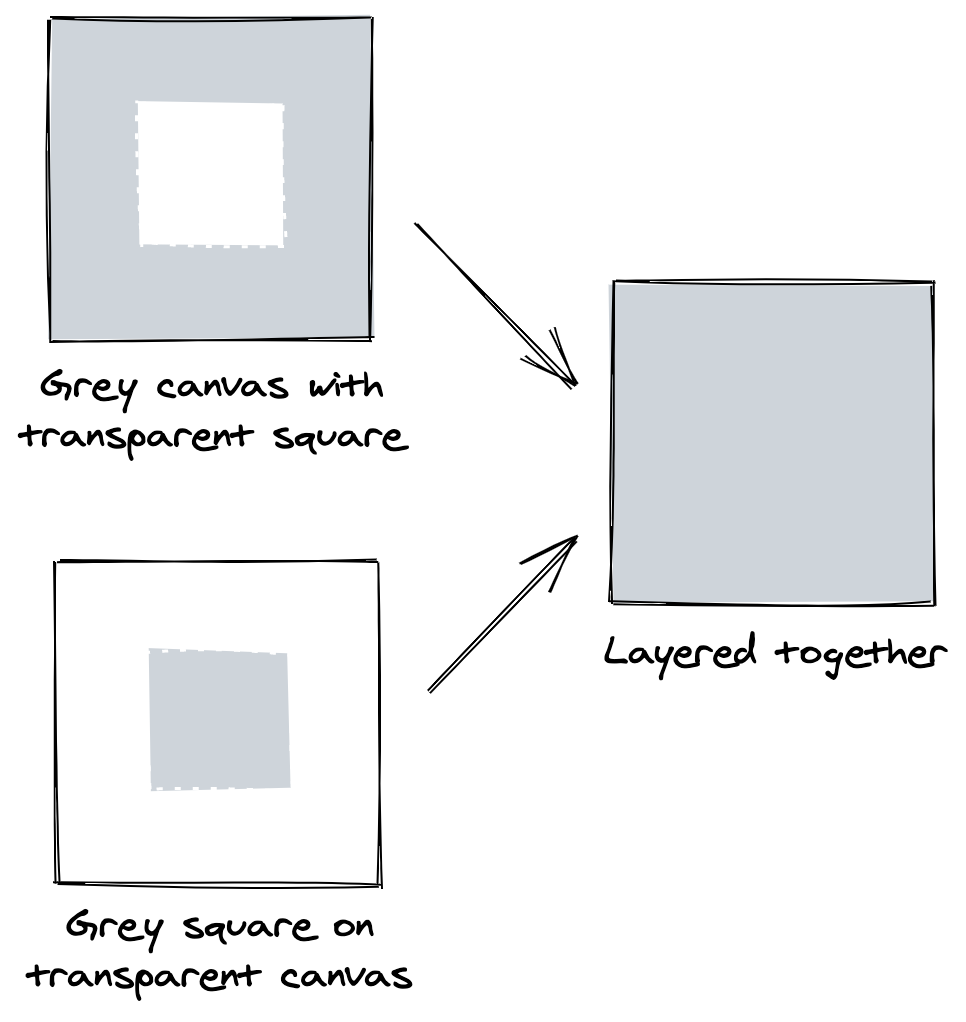
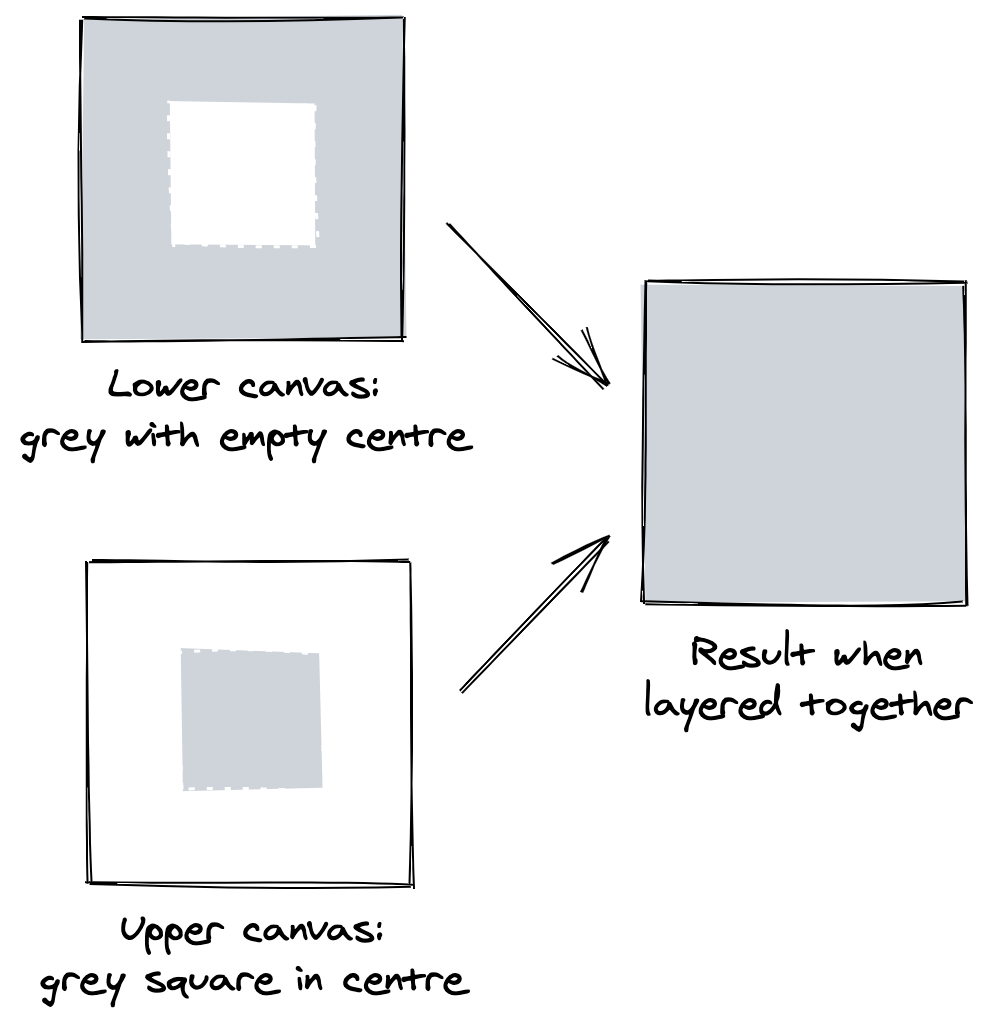
Feature/canvas post improvements (#80)
* canvas posts improvements

* improvements

* update posts

* activate the posts

* update dates

diff --git a/src/static/iframes/canvas-tearing.html b/src/static/iframes/canvas-tearing.html
@@ -63,17 +63,27 @@
       let direction = "up";
 
       function handleLoad() {
+        let offscreenCanvases = null;
+        try {
+          const canvasOne = document.getElementById("canvas-one");
+          const canvasTwo = document.getElementById("canvas-two");
+          offscreenCanvases = [
+            canvasOne.transferControlToOffscreen(),
+            canvasTwo.transferControlToOffscreen(),
+          ];
+        } catch (err) {
+          // I can't just check for the presence of the transferControlToOffscreen
+          // method because it exists in Firefox but is not implemented.
+          document.querySelector("body").innerText =
+            "transferControlToOffscreen is not supported in this browser";
+          return;
+        }
+
         const blob = new Blob([document.querySelector("#worker").textContent], {
           type: "text/javascript",
         });
         worker = new Worker(window.URL.createObjectURL(blob));
 
-        const canvasOne = document.getElementById("canvas-one");
-        const canvasTwo = document.getElementById("canvas-two");
-        const offscreenCanvases = [
-          canvasOne.transferControlToOffscreen(),
-          canvasTwo.transferControlToOffscreen(),
-        ];
         worker.postMessage(
           {
             type: "TRANSFER_CANVASES",
@@ -151,6 +161,10 @@
         height: 400px;
       }
 
+      .canvas-wrap:not(:first-of-type) {
+        margin-top: 30px;
+      }
+
       .canvas-wrap > * {
         position: absolute;
         top: 0;
@@ -170,7 +184,8 @@
         font-family: sans-serif;
         font-size: 1rem;
         text-transform: uppercase;
-        margin: 0.25rem 0 0 0.25rem;
+        margin: 0.5rem 0 0 0.5rem;
+        color: white;
       }
     </style>
   </head>

diff --git a/src/posts/2020-08-22-layered-canvas-rendering-issues-in-web-workers.md b/src/posts/2020-08-22-layered-canvas-rendering-issues-in-web-workers.md
@@ -6,35 +6,36 @@ date: 2020-08-22
 author:
   name: Steve Johns
   url: https://www.linkedin.com/in/stephen-johns-47a7568/
-draft: true
 issueNumber: 77
 ---
 
 ## Introduction
 
-A recommended optimisation when using a [`<canvas>`](https://developer.mozilla.org/en-US/docs/Web/HTML/Element/canvas) HTML element to render a complex scene is to [use multiple canvases layered together](https://developer.mozilla.org/en-US/docs/Web/API/Canvas_API/Tutorial/Optimizing_canvas), rather than just a single canvas. This post details two rendering issues that I have found in Chrome when rendering to layered canvases from Web Workers.
+A recommended optimisation when using a [`<canvas>`](https://developer.mozilla.org/en-US/docs/Web/HTML/Element/canvas) HTML element to render a complex scene is to [use multiple canvases layered together](https://developer.mozilla.org/en-US/docs/Web/API/Canvas_API/Tutorial/Optimizing_canvas), rather than just a single canvas. This post details two rendering issues that I have found in Chrome when using the [Canvas API](https://developer.mozilla.org/en-US/docs/Web/API/Canvas_API) to render to layered canvases from within a Web Worker.
+
+**Note:** The `<canvas>` element also supports displaying 3D graphics using the [WebGL API](https://developer.mozilla.org/en-US/docs/Web/API/WebGL_API), but in this post I have only used the 2D Canvas API for rendering.{class=note}
 
 ## Web Workers and layered canvases
 
-I was interested in using the new and experimental [`HTMLCanvasElement.transferControlToOffscreen`](https://developer.mozilla.org/en-US/docs/Web/API/HTMLCanvasElement/transferControlToOffscreen) method to be able to render to a `<canvas>` element from within a Web Worker. The advantage is that it removes the rendering code from the main thread, hopefully improving the responsiveness of the page. The `transferControlToOffscreen` method is already supported in Chrome so I decided to convert some code from an image editor I have been working on to offload its canvas rendering to a Web Worker.
+I was interested in trying the new and experimental [`HTMLCanvasElement.transferControlToOffscreen`](https://developer.mozilla.org/en-US/docs/Web/API/HTMLCanvasElement/transferControlToOffscreen) method to be able to render to a `<canvas>` element from within a Web Worker. The advantage is that it removes the rendering code from the main thread, hopefully improving the responsiveness of the page. The `transferControlToOffscreen` method is already supported in Chrome so I decided to convert some code from an image editor I have been working on to offload its canvas rendering to a Web Worker.
 
-The image editor uses the layered canvases optimisation. Imagine that you are creating an image editor that supports multiple layers, but the user can only draw to the currently selected layer. One approach is to use a single `<canvas>` element to display all of the layers, but this will be inefficient: you have to redraw all of the layers whenever the user draws to the current layer, even though the layers above and the layers below have not changed. A better approach is to use three `<canvas>` elements, one for the layers below, one for the current layer, and one for the layers above. Now you only need to redraw the current layer's `<canvas>` element when the user draws to it, although in some situations you still need to redraw all of the canvases, such as when zooming into or out of the image.
+The image editor uses the layered canvases optimisation. Imagine that you are creating an image editor that supports multiple layers, but the user can only draw to the currently selected layer. One approach is to use a single `<canvas>` element to display all of the layers, but this will be inefficient: you have to redraw all of the layers whenever the user draws to the current layer, even though the layers above and the layers below have not changed. A better approach is to use three `<canvas>` elements, one for the layers below, one for the current layer, and one for the layers above. Now you only need to redraw the current layer's `<canvas>` element when the user draws to it, although in some situations you still need to redraw all of the canvases, such as when zooming in or out of the image.
 
 ## Problems with update timings
 
 I soon saw a problem with the image editor conversion: when all of the layered canvases need to be redrawn at the same time, for example when zooming in or out, all of the updates do not necessarily occur on the same frame. This is despite that fact that I issue all of the updates within the same `requestAnimationFrame` callback. The result can be tearing, where one canvas layer has been updated with the new image data but the other canvas layers have not and so they still display the old image data. Importantly, this tearing does not happen _at all_ if rendering is performed on the main thread.
 
-For the purposes of this post, I have created a simple demonstration widget that consists of two equal-sized canvases, one on top of the other. I draw a grey square in the centre of the upper canvas. I fill the lower canvas with that same grey color but I erase the area that is covered by the square on the upper canvas:
+For the purposes of this post, I have created a simple demonstration widget that consists of two equal-sized canvases, one on top of the other. Using the Canvas API I fill the lower canvas with grey, except for a square in the centre. I then draw a square in the centre of the upper canvas that exactly covers the empty area on the lower canvas:
 
 ![](/images/2020-08-22-layered-canvas-rendering-issues-in-web-workers/canvas-rendering-test-image-2x.png "Canvas test with two layered canvases")
 
-There is a slider that controls the size of the grey square, simulating zooming in and out of the image. The color behind the canvases is [rebeccapurple](https://medium.com/@valgaze/the-hidden-purple-memorial-in-your-web-browser-7d84813bb416). When the slider is moved, both canvases get updated to show the square at its new size. If the two canvases always get updated on the same frame then the purple background will never be visible, since the square on the upper canvas and the hole in the bottom canvas will always match up exactly However, if the canvases get updated on different frames then there will be a moment when one canvas will have been updated with the new square size while the other canvas will still be displaying the old square size. If this happens when zooming out, the purple background may become momentarily visible.
+There is a slider that controls the size of the squares, simulating zooming in and out of the image. The color behind the canvases is [rebeccapurple](https://medium.com/@valgaze/the-hidden-purple-memorial-in-your-web-browser-7d84813bb416). When the slider is moved, both canvases get updated to show the grey/empty square at its new size. If the two canvases always get updated on the same frame then the purple background will never be visible, since the square on the upper canvas and the hole in the bottom canvas will always match up exactly. However, if the canvases get updated on different frames then there will be a moment when one canvas will have been updated with the new square size while the other canvas will still be displaying the old square size. If this happens when zooming out, the purple background may become momentarily visible.
 
-I tried this test in Chrome v84 on macOS v10.15 Catalina, once when the canvas updates were performed on the main thread and once when they were performed on the Web Worker. When they were performed on the main thread then I never saw the purple background but I regularly did when they were performed on the Web Worker. The following is a video of what I saw:
+I tried this test in Chrome v84 on macOS v10.15 Catalina, once when the canvas updates were performed on the main thread and once when they were performed on the Web Worker. When they were performed on the main thread then I never saw the purple background but when they were performed on the Web Worker then I regularly did. The following is a video of what I saw:
 
 ![](/images/2020-08-22-layered-canvas-rendering-issues-in-web-workers/tearing-1-2x.gif "Tearing when using a Web Worker for canvas updates")
 
-Also using the Web Worker, I sometimes saw nasty rendering glitches where nearly the entire canvas flashed white. These occurred in the following video:
+Also using the Web Worker, I sometimes saw nasty rendering glitches where nearly the entire canvas flashed white. These have been captured in the following video:
 
 ![](/images/2020-08-22-layered-canvas-rendering-issues-in-web-workers/tearing-2-2x.gif "Flashes when using a Web Worker for canvas updates")
 
@@ -42,10 +43,10 @@ If you want to try this test for yourself then the HTML file I used is available
 
 ## Conclusion
 
-Rendering to a canvas from a Web Worker has issues with timing and glitching in Chrome that may impact the common rendering optimisation of using layered canvases for complex scenes. This is something to be aware of if you are looking to move rendering off of your Web app's main thread and onto a Web Worker. That said, I must stress that this is an experimental feature and hopefully the issues I have seen will be rectified in due course.
+Rendering to a canvas using the Canvas API from a Web Worker has issues with timing and glitching in Chrome that may impact the common rendering optimisation of using layered canvases for complex scenes. This is something to be aware of if you are looking to move rendering off of your Web app's main thread and onto a Web Worker. That said, I must stress that this is an experimental feature and hopefully the issues I have seen will be rectified in due course.
 
 ---
 
 ## Changelog
 
-- 2020-08-22 Initial version
+- 2020-08-24 Initial version

diff --git a/src/posts/2020-08-23-a-performance-testing-gotcha-with-the-canvas-web-api.md b/src/posts/2020-08-23-a-performance-testing-gotcha-with-the-canvas-web-api.md
@@ -6,7 +6,6 @@ date: 2020-08-23
 author:
   name: Steve Johns
   url: https://www.linkedin.com/in/stephen-johns-47a7568/
-draft: true
 issueNumber: 78
 ---
 
@@ -16,7 +15,7 @@ The [Canvas API](https://developer.mozilla.org/en-US/docs/Web/API/Canvas_API) is
 
 ## The initial attempt
 
-The [`drawImage`](https://developer.mozilla.org/en-US/docs/Web/API/CanvasRenderingContext2D/drawImage) method of the Canvas API is a synchronous method that allows you to draw an image to a `<canvas>` element or an `OffscreenCanvas`. It accepts several types of image source and it allows you to crop and/or scale the image at the same time. I was interested in the performance cost of scaling for various combinations of source and target image sizes, and so I created [this performance test suite](https://jsbench.me/1dke2mcybs/2) on the [JSBench.me](https://jsbench.me/) Web site.
+The [`drawImage`](https://developer.mozilla.org/en-US/docs/Web/API/CanvasRenderingContext2D/drawImage) method of the Canvas API is a synchronous method that allows you to draw an image to a [`<canvas>`](https://developer.mozilla.org/en-US/docs/Web/HTML/Element/canvas) HTML element or an [`OffscreenCanvas`](https://developer.mozilla.org/en-US/docs/Web/API/OffscreenCanvas). It accepts several types of image source and it allows you to crop and/or scale the image at the same time. I was interested in the performance cost of scaling for various combinations of source and target image sizes, and so I created [this performance test suite](https://jsbench.me/1dke2mcybs/2) on the [JSBench.me](https://jsbench.me/) Web site.
 
 The test is quite simple. In the set-up I create a small source `<canvas>` element and a large destination `<canvas>` element. Then in each test I just invoke `drawImage` with some particular set of parameters:
 
@@ -50,8 +49,8 @@ $destContext.drawImage($destCanvas, 0, 0, 1, 1, 0, 0, 1, 1);
 
 I still found issues with the page freezing in Chrome on macOS but more importantly I saw significant variance in execution time of greater than ±100% for the first test. In theory an alternative way to force a flush is to read from the destination canvas immediately after writing to it. There are two ways that I know of to read pixel data from a canvas:
 
-- [`CanvasRenderingContext2D.getImageData`](https://developer.mozilla.org/en-US/docs/Web/API/CanvasRenderingContext2D/getImageData)
-- [`createImageBitmap`](https://developer.mozilla.org/en-US/docs/Web/API/WindowOrWorkerGlobalScope/createImageBitmap)
+- [`CanvasRenderingContext2D.getImageData`](https://developer.mozilla.org/en-US/docs/Web/API/CanvasRenderingContext2D/getImageData).
+- [`createImageBitmap`](https://developer.mozilla.org/en-US/docs/Web/API/WindowOrWorkerGlobalScope/createImageBitmap) (not supported in Safari).
 
 Using `createImageBitmap` works well and the resulting performance test suite can be found [here](https://jsbench.me/ooke36wtsw/1). The following is an example test from that test suite:
 
@@ -89,6 +88,8 @@ Again I only read the image data for a single pixel. There is no page freezing w
 
 My suspicion is that the destination canvas gets turned into a CPU canvas because of the calls to `getImageData`, and so these results are without hardware acceleration. It is noticeable how much slower these results are compared to those from the previous test suite. This demonstrates how much of a performance hit it can be if the browser runs a canvas as a CPU canvas rather than as a GPU canvas. For more on this topic, please see [my post here](/blog/posts/2020/08/21/cpu-versus-gpu-with-the-canvas-web-api).
 
+Note that the method you use for flushing might need to vary depending on the browser or even the browser version. You would have to experiment with the approaches given in this post.
+
 ## Some results for the `drawImage` method performance tests
 
 I created two test suites for performance testing the `drawImage` method, both using `createImageBitmap` for flushing:
@@ -96,23 +97,25 @@ I created two test suites for performance testing the `drawImage` method, both u
 - [Scaling up performance](https://jsbench.me/ooke36wtsw/1) (the test suite from the previous section).
 - [Scaling down performance](https://jsbench.me/cake67gtlb/1).
 
-I performed these tests from Chrome v84 on macOS v10.15 using a mid-2014 i5 MacBook Pro. The following is an example test run result for scaling up performance (duplicated from the previous section):
+I performed these tests in Chrome v84 and Edge v84 on macOS v10.15 using a mid-2014 i5 MacBook Pro. The following is an example test run result for scaling up performance (duplicated from the previous section):
 
 | Test                                                                     | Result                 |
 | ------------------------------------------------------------------------ | ---------------------- |
-| Scaling from a 300x300 canvas area to a 300x300 canvas area (no scaling) | 1435.57 ops/s ± 17.99% |
-| Scaling from a 300x300 canvas area to a 900x900 canvas area              | 848.19 ops/s ± 8.88%   |
-| Scaling from a 300x300 canvas area to a 3000x3000 canvas area            | 480.4 ops/s ± 31.48%   |
+| Scaling from a 300x300 canvas area to a 300x300 canvas area (no scaling) | 1192.83 ops/s ± 17.05% |
+| Scaling from a 300x300 canvas area to a 900x900 canvas area              | 794.14 ops/s ± 8.5%    |
+| Scaling from a 300x300 canvas area to a 3000x3000 canvas area            | 458.93 ops/s ± 22.79%  |
 
 The following is an example test run result for scaling down performance:
 
 | Test                                                                         | Result                |
 | ---------------------------------------------------------------------------- | --------------------- |
-| Scaling from a 3000x3000 canvas area to a 300x300 canvas area                | 1018.38 ops/s ± 22.7% |
-| Scaling from a 3000x3000 canvas area to a 900x900 canvas area                | 502.38 ops/s ± 21.1%  |
-| Scaling from a 3000x3000 canvas area to a 3000x3000 canvas area (no scaling) | 317.33 ops/s ± 5.64%  |
+| Scaling from a 3000x3000 canvas area to a 300x300 canvas area                | 889.19 ops/s ± 42.13% |
+| Scaling from a 3000x3000 canvas area to a 900x900 canvas area                | 56.26 ops/s ± 165.22% |
+| Scaling from a 3000x3000 canvas area to a 3000x3000 canvas area (no scaling) | 64.05 ops/s ± 43.89%  |
 
-The most significant factor in performance appears to be the size of the destination image area: the smaller the destination image area, the better the performance. Even when scaling from a large image area to a small image area, the performance was over 1000 operation per seconds. That said, the size of the source image area does also affect performance, with smaller source image areas producing better results than larger source image area.
+I got comparable results running the tests in Chrome v84 and Edge v84 on Windows 10. In my testing, I noticed that the results could vary quite a lot between runs, but the basic magnitude of the timings would be consistent.
+
+Scaling up was performant regardless of the destination canvas area, whereas scaling down was only performant for the smallest destination canvas area. This suggests that the lower the total number of pixels involved, source and destination combined, then the more performant scaling will be. This observation of course makes sense intuitively.
 
 ## Conclusion
 
@@ -122,4 +125,4 @@ Performance testing in general can be difficult to do well and consistently, and
 
 ## Changelog
 
-- 2020-08-23 Initial version
+- 2020-08-24 Initial version

diff --git a/src/posts/2020-08-21-cpu-versus-gpu-with-the-canvas-web-api.md b/src/posts/2020-08-21-cpu-versus-gpu-with-the-canvas-web-api.md
@@ -6,19 +6,16 @@ date: 2020-08-21
 author:
   name: Steve Johns
   url: https://www.linkedin.com/in/stephen-johns-47a7568/
-draft: true
 issueNumber: 76
 ---
 
 ## Introduction
 
-The [Canvas API](https://developer.mozilla.org/en-US/docs/Web/API/Canvas_API) is a rich and performant API for drawing and manipulating two-dimensional (2D) graphics in a Web browser. Drawing can be performed using the [`<canvas>`](https://developer.mozilla.org/en-US/docs/Web/HTML/Element/canvas) HTML element or an [`OffscreenCanvas`](https://developer.mozilla.org/en-US/docs/Web/API/OffscreenCanvas). When rendering content to a canvas, the browser can choose to use either the CPU or the [GPU](https://en.wikipedia.org/wiki/Graphics_processing_unit). This post examines how this decision is made and what effect this can have on rendering performance.
-
-**Note:** The `<canvas>` element also supports displaying three-dimensional (3D) graphics using the [WebGL API](https://developer.mozilla.org/en-US/docs/Web/API/WebGL_API), but in this post I focus solely on its use in 2D graphics.{class=note}
+The [Canvas API](https://developer.mozilla.org/en-US/docs/Web/API/Canvas_API) is a rich and performant API for drawing and manipulating 2D graphics in a Web browser. Drawing can be performed using the [`<canvas>`](https://developer.mozilla.org/en-US/docs/Web/HTML/Element/canvas) HTML element or an [`OffscreenCanvas`](https://developer.mozilla.org/en-US/docs/Web/API/OffscreenCanvas). When rendering content to a canvas, the browser can choose to use either the CPU or the [GPU](https://en.wikipedia.org/wiki/Graphics_processing_unit). This post examines how this decision is made and what effect this can have on rendering performance.
 
 ## Browser heuristics
 
-When you create a `<canvas>` element or an `OffscreenCanvas`, the browser has to decide whether to store the data for the canvas in main memory and use functions running on the CPU to render to it, or whether to create the canvas on the GPU and render to it by invoking GPU draw instructions. I use the term _CPU canvas_ for a canvas that the browser is using the CPU to render to, and the term _GPU canvas_ when the browser is instead using the GPU. Generally a GPU canvas is preferred as rendering will be hardware accelerated, but both approaches have advantages and disadvantages. Because of this, the browser might include complex heuristics for deciding which approach to use, potentially even [changing approach after the initial decision](https://www.reddit.com/r/javascript/comments/ac9hdb/calling_getimagedata_potentially_puts_you_canvas/) in response to how it sees the canvas is being used. [This file](https://chromium.googlesource.com/chromium/src/+/41d279a5476937a3981a8413be722d42da0de0d2/third_party/WebKit/Source/platform/graphics/ExpensiveCanvasHeuristicParameters.h) is an example of the heuristics used in an older version of the [Blink](<https://en.wikipedia.org/wiki/Blink_(browser_engine)>) browser engine in Chrome.
+When you create a `<canvas>` element or an `OffscreenCanvas`, the browser has to decide whether to store the data for the canvas in main memory and so use functions running on the CPU to render to it, or whether to create the canvas on the GPU and render to it by invoking GPU draw instructions. I use the term _CPU canvas_ for a canvas that the browser is using the CPU for rendering, and the term _GPU canvas_ when the browser is instead using the GPU. Generally a GPU canvas is preferred as rendering will be hardware accelerated and so faster, but both approaches have advantages and disadvantages. Because of this, the browser might include complex heuristics for deciding which approach to use, potentially even [changing approach after the initial decision](https://www.reddit.com/r/javascript/comments/ac9hdb/calling_getimagedata_potentially_puts_you_canvas/) in response to how it sees the canvas is being used. [This file](https://chromium.googlesource.com/chromium/src/+/41d279a5476937a3981a8413be722d42da0de0d2/third_party/WebKit/Source/platform/graphics/ExpensiveCanvasHeuristicParameters.h) is an example of the heuristics used in an older version of the [Blink](<https://en.wikipedia.org/wiki/Blink_(browser_engine)>) browser engine in Chrome.
 
 ### Size can matter
 
@@ -26,7 +23,7 @@ One potential and simple heuristic is the size of the canvas: a very small or ve
 
 ### Usages of `getImageData` and `putImageData`
 
-A very important heuristic is whether or not [`CanvasRenderingContext2D.getImageData`](https://developer.mozilla.org/en-US/docs/Web/API/CanvasRenderingContext2D/getImageData) and [`CanvasRenderingContext2D.putImageData`](https://developer.mozilla.org/en-US/docs/Web/API/CanvasRenderingContext2D/putImageData) are used with the canvas. Generally these two methods are used to read the values of particular pixels to process them in some way, such as applying a desaturation filter to an image, and they are handled by the CPU not the GPU. If the canvas is a GPU canvas then these methods require a GPU to CPU transfer of the pixel data (sometimes termed a GPU readback) which is [well known for being a slow operation](https://superuser.com/questions/1478985/why-is-there-a-bottleneck-sending-data-from-a-gpu-to-a-cpu-but-less-so-from-cp). Given this, if you use `getImageData` or `putImageData` on a canvas then the browser might decide to make that canvas a CPU canvas in order to avoid GPU readbacks.
+A very important heuristic is whether or not [`CanvasRenderingContext2D.getImageData`](https://developer.mozilla.org/en-US/docs/Web/API/CanvasRenderingContext2D/getImageData) and [`CanvasRenderingContext2D.putImageData`](https://developer.mozilla.org/en-US/docs/Web/API/CanvasRenderingContext2D/putImageData) are used with the canvas. Generally these two methods are used to read the values of particular pixels to process them in some way, such as applying a desaturation filter to an image, and they are handled by the CPU not the GPU. If the canvas is a GPU canvas then these methods require a GPU to CPU transfer of the pixel data (sometimes termed a GPU readback) which is [well known for being a slow operation](https://superuser.com/questions/1478985/why-is-there-a-bottleneck-sending-data-from-a-gpu-to-a-cpu-but-less-so-from-cp). Given this, if you use `getImageData` or `putImageData` on a canvas then the browser might decide to make that canvas a CPU canvas in order to avoid the overhead of GPU readbacks.
 
 Browsers are also starting to support a new [`willReadFrequently`](https://developer.mozilla.org/en-US/docs/Web/API/HTMLCanvasElement/getContext) 2D canvas context attribute that allows you to request a CPU canvas when you know that your use case will benefit from one, rather than you having to rely on getting one via browser heuristics.
 
@@ -51,7 +48,7 @@ canvas.height = 1080;
 var context = canvas.getContext("2d");
 ```
 
-... but the set-up function for the CPU canvas test then includes one final line designed to trigger usage of a CPU canvas in Chrome v84:
+... but the set-up function for the CPU canvas test then includes one final line designed to trigger use of a CPU canvas in Chrome v84:
 
 ```js
 context.getImageData(0, 0, 1, 1);
@@ -76,4 +73,4 @@ The Canvas API is in theory a performant and easy-to-use API for drawing and man
 
 ## Changelog
 
-- 2020-08-21 Initial version
+- 2020-08-24 Initial version
